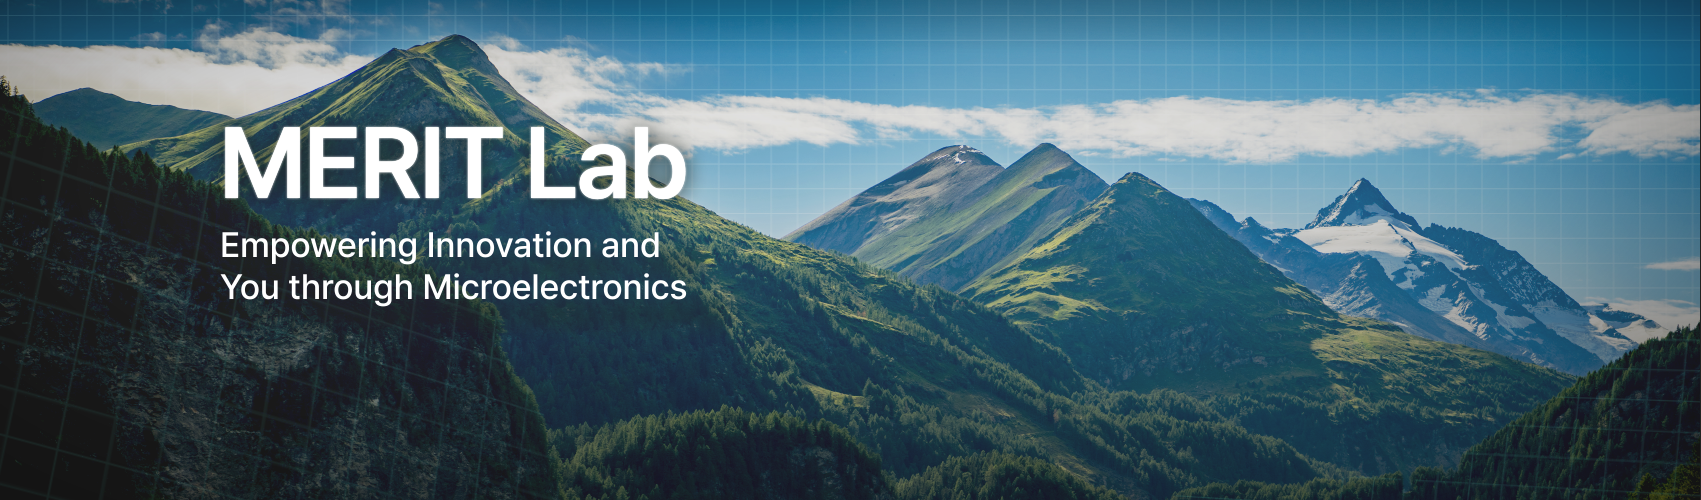
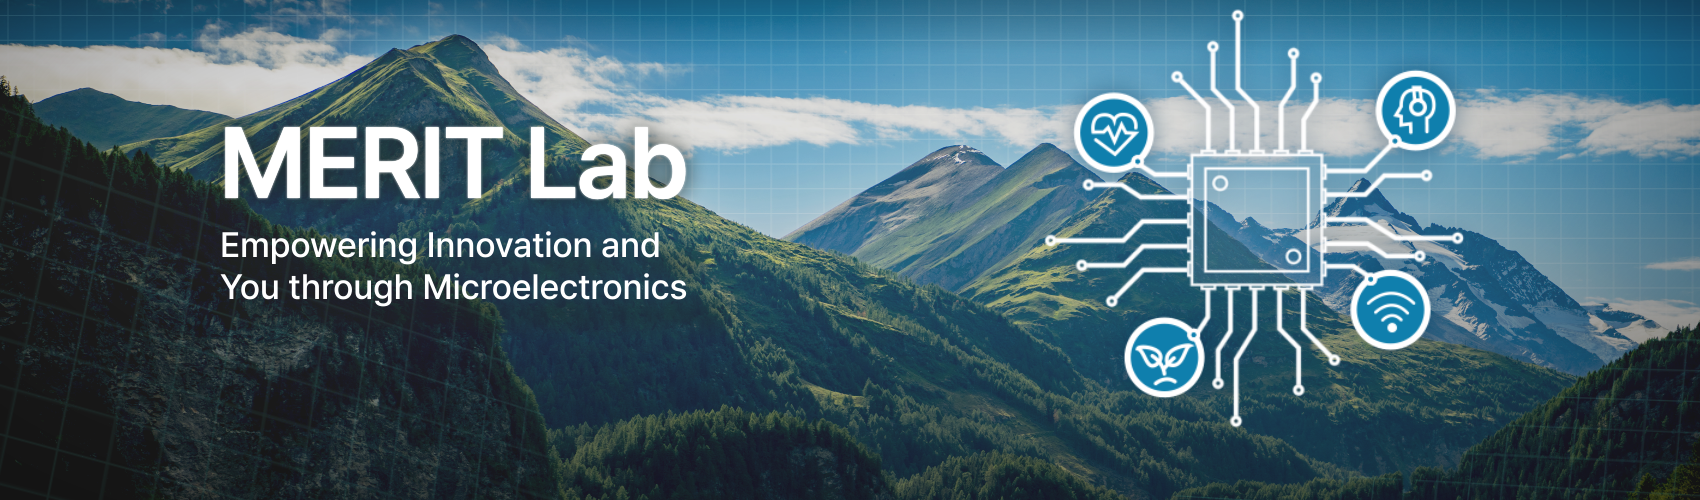
main image 변경, KIEE 내용 Photos, News, Index, Gallery 추가

diff --git a/photo-detail_2025_6.html b/photo-detail_2025_6.html
@@ -1,0 +1,127 @@
+<!DOCTYPE html>
+<html lang="en">
+  <head>
+    <meta charset="UTF-8" />
+    <meta name="viewport" content="width=device-width, initial-scale=1.0" />
+    <title>Photos</title>
+    <!-- css -->
+    <link rel="stylesheet" href="/static/css/reset.css" />
+    <link rel="stylesheet" href="/static/css/style.css" />
+    <link rel="stylesheet" href="/static/css/header.css" />
+    <!-- favicon -->
+    <link rel="icon" href="/static/favicon/favicon.ico" />
+    <!-- font -->
+    <link rel="preconnect" href="https://fonts.googleapis.com" />
+    <link rel="preconnect" href="https://fonts.gstatic.com" crossorigin />
+    <link
+      rel="stylesheet"
+      href="https://cdnjs.cloudflare.com/ajax/libs/font-awesome/6.5.0/css/all.min.css"
+    />
+    <!-- js -->
+    <script src="/static/js/header.js"></script>
+    <!-- 제이쿼리 -->
+    <script
+      src="https://code.jquery.com/jquery-3.7.1.js"
+      integrity="sha256-eKhayi8LEQwp4NKxN+CfCh+3qOVUtJn3QNZ0TciWLP4="
+      crossorigin="anonymous"
+    ></script>
+    <script
+      src="//cdn.jsdelivr.net/npm/jquery.marquee@1.6.0/jquery.marquee.min.js"
+      type="text/javascript"
+    ></script>
+    <!-- header -->
+    <link
+      href="https://www.jqueryscript.net/css/jquerysctipttop.css"
+      rel="stylesheet"
+      type="text/css"
+    />
+    <link
+      href="https://stackpath.bootstrapcdn.com/font-awesome/4.7.0/css/font-awesome.min.css"
+      rel="stylesheet"
+      integrity="sha384-wvfXpqpZZVQGK6TAh5PVlGOfQNHSoD2xbE+QkPxCAFlNEevoEH3Sl0sibVcOQVnN"
+      crossorigin="anonymous"
+    />
+  </head>
+  <body>
+    <header></header>
+    <section id="depth_photo">
+      <div class="photo_detail_wrap">
+        <div class="title">
+            <p>2025 대한전기학회 하계종합학술대회 발표</p>
+            <span>July. 17, Busan</span>
+        </div>
+        <div class="content">
+          <div class="one-img">
+            <img src="/static/img/photos/2025/KIEE/photos_2025_KIEE1.png">
+            <span class="explanation"></span>
+            <p> <b style="font-weight:700;">7월 16일부터 20일까지는 부산 BEXCO 에서 대한전기학회 하계종합학술대회가 열렸습니다!🎉🎉</b></p>
+            <p> <b style="font-weight:700;">이번 하계종합학술대회에서는 <b style="font-weight:1000;">이철현</b> 석사과정과 <b style="font-weight:1000;">김현수</b> 학부연구생이 각각 논문을 제출하고, 발표를 진행했습니다!</b></p>
+          <div class="two-img">
+            <div>
+              <img src="/static/img/photos/2025/KIEE/photos_2025_KIEE3.jpg">
+              <span class="explanation">이철현 석사과정</span>
+            </div>
+            <div>
+              <img src="/static/img/photos/2025/KIEE/photos_2025_KIEE2.jpg">
+              <span class="explanation">김현수 학부연구생</span>
+            </div>
+         </div>
+          <p> <b style="font-weight:700;">이철현 석사과정 학생은 구두 발표로, 김현수 학부연구생은 포스터 발표로 각각 발표를 진행했습니다 🥳</b></p>
+          <p> <b style="font-weight:700;">아쉽게도 둘 다 수상에는 실패했지만, 두 분 모두 좋은 경험이 되었을 것이라 생각합니다!<br>고생 많으셨어요👊</b></p>
+          <div class="one-img">
+            <img src="/static/img/photos/2025/KIEE/photos_2025_KIEE4.png">
+            <span class="explanation"></span>
+         </div>
+          <p> <b style="font-weight:700;"> 마지막으로, 요즘 유행하는 지브리 스타일 사진의 김현수 학생으로 마무리~ 👉</b></p>
+          <p> <b style="font-weight:900;"> MERIT LAB 화이팅! 👊👊👊</b></p>
+         </div>
+        </div>
+      </div>
+      </div>
+      </div>
+    </section>
+    <footer>
+      <div class="f_wrapper">
+        <div class="f_info">
+          <p>MERIT Lab</p>
+          <p>Contact : Prof. Soon-jae Kweon (sj.kweon@catholic.ac.kr)</p>
+          <p>43 Jibong-ro, Wonmi-gu, Bucheon-si, Gyeonggi-do</p>
+        </div>
+        <div class="copyright">
+          <span
+            >© MicroElectronics based on Remarkable Integrated circuits
+            Technology. ALL RIGHTS RESERVED.</span
+          >
+        </div>
+      </div>
+    </footer>
+    <script>
+      $(document).ready(function () {
+        $(".menu-toggle").click(function () {
+          $("nav").toggleClass("active");
+        });
+
+        $("ul li").click(function () {
+          $(this).siblings().removeClass("active");
+          $(this).toggleClass("active");
+        });
+      });
+    </script>
+    <script>
+      document.querySelectorAll(".yearmenu").forEach((link) => {
+        link.addEventListener("click", function () {
+          document
+            .querySelectorAll(".yearmenu")
+            .forEach((link) => link.classList.remove("active"));
+
+          this.classList.add("active");
+        });
+      });
+    </script>
+    <script>
+        $(function () {
+            $("header").load("header.html");
+        });
+    </script>
+  </body>
+</html>

diff --git a/news_current.html b/news_current.html
@@ -86,6 +86,47 @@
             <!-- 연도 -->
             <h5 class="news_year">2025</h5>
             <ul>
+              <li data-id="KIEE2025">
+                <input type="checkbox" / >
+                <i></i>
+                <div class="title_wrap">
+                  <!-- 제목 연도 -->
+                  <div class="tag">2025. 7</div>
+                  <!-- 뉴스 제목 -->
+                  <div class="title">
+                    <h2>2025 대한전기학회 하계종합학술대회 발표</h2>
+                  </div>
+                </div>
+                <!-- 뉴스 컨텐츠 -->
+                <div class="content">
+                  <div class="tag">2025</div>
+                  <!-- 컨텐츠 제목 -->
+                  <p class="title">
+                    2025 대한전기학회 하계종합학술대회 발표
+                    <!-- 날짜 -->
+                    <span class="date">2025.07.17</span>
+                  </p>
+                  <div class="detail">
+                    <!-- 설명 작성 -->
+                    <p>
+                      7월 16일부터 20일까지 부산 BEXCO 에서 진행하는, 2025 대한전기학회 하계종합학술대회에 MERIT Lab이 참여했습니다!<br />
+                      저희 연구실에서는 <b style="font-weight:700;">이철현</b> 석사과정 학생과 <b style="font-weight:700;">김현수</b> 학부연구생이 각각 논문을 내고, 
+                      구두발표와 포스터 발표를 진행했습니다! 축하합니다!🥳🥳
+                    </p>
+                    <p>
+                      MERIT Lab participated in the 2025 Korean Institute of Electrical Engineerings Summer Conference held at BEXCO in Busan from July 16th to 20th! <br />
+                      In our lab, Master's student <b style="font-weight:700">Cheolhyeon Lee</b> and undergraduate researcher <b style="font-weight:700">Hyunsu Kim</b> each submitted papers and gave oral and poster presentations! Congrats! 🥳🥳
+                    </p>
+
+                    <img src="/static/img/photos/2025/KIEE/photos_2025_KIEE1.png"/>
+
+                    <div class="img_2_horizontal">
+                      <img src="/static/img/photos/2025/KIEE/photos_2025_KIEE3.jpg" />
+                      <img src="/static/img/photos/2025/KIEE/photos_2025_KIEE5.jpg" />
+                    </div>
+                  </div>
+                </div>
+              </li>
               <li data-id="Teacher's_Day2025">
                 <input type="checkbox" / >
                 <i></i>

diff --git a/index.html b/index.html
@@ -114,21 +114,21 @@
           <div class="news_list_wrapper">
             <ul>
               <li>
+                <a href="./news_current.html#KIEE2025">2025 대한전기학회 하계종합학술대회 발표 🎤</a>
+              </li>
+              <li>
                 <a href="./news_current.html#Teacher's_Day2025">2025 스승의 날 행사 🌺</a>
               </li>
               <li>
-                <a href="./news_current.html#openingparty2025"> 2025 개강파티 🍺</a>
+                <a href="./news_current.html#openingparty2025"
+                  >2025 개강파티 🍺</a>
               </li>
               <li>
-                <a href="./news_current.html#MSnew2025"
-                  >2025 봄 학기 석사과정 신입생 환영 🌸</a
-                >
+                <a href="./news_current.html#MSnew2025">
+                  2025 봄 학기 석사과정 신입생 환영 🌸</a>
               </li>
               <li>
-                <a href="./news_current.html#graduation2025">2025 졸업식 🎓</a>
-              </li>
-              <li>
-                <a href="./news_current.html#academia2025">2025 한국전자파학회 동계학술대회 참석 🎤</a
+                <a href="./news_current.html#graduation2025">2025 졸업식 🎓</a
                 >
               </li>
             </ul>
@@ -142,6 +142,9 @@
           </div>
         </div>
         <div class="gallery_img_wrapper">
+          <a href="./photo-detail_2025_6.html">
+            <img src="/static/img/photos/2025/KIEE/photos_2025_KIEE1.png" />
+          </a>
           <a href="./photo-detail_2025_5.html">
             <img src="/static/img/photos/2025/Teacher's_Day/photos_2025_teacher's_day4.png" />
           </a>
@@ -153,6 +156,16 @@
           <a href="./photo-detail_2025_3.html">
             <img
               src="/static/img/photos/2025/Graduate/photos_2025_graduate1.jpg"
+            />
+          </a>
+          <a href="./photo-detail_2025_2.html">
+            <img
+              src="/static/img/photos/2025/KIEES/photos_2025_kiees1.jpg"
+            />
+          </a>
+          <a href="./photo-detail_2025_1.html">
+            <img
+              src="/static/img/photos/2025/MERIT_MT/photos_2025_ski1.jpg"
             />
           </a>
         </div>

diff --git a/photo.html b/photo.html
@@ -88,6 +88,20 @@
             <h3 class="photo_year_title">2025</h3>
             <div class="photowrap">
               <div class="container">
+                <a href="./photo-detail_2025_6.html">
+                  <div class="box">
+                  <div class="thumbnail">
+                    <!-- photo의 썸네일 사진 경로 -->
+                    <img src="/static/img/photos/2025/KIEE/photos_2025_KIEE1.png" />
+                  </div>
+                  <!-- photo의 제목 -->
+                  <p class="title">2025 대한전기학회 하계종합학술대회 발표 🎤</p>
+                  <!-- 날짜 -->
+                  <span class="date">2025. 07. 17</span>
+                  </div>
+                </a>
+              </div>  
+              <div class="container">
                 <a href="./photo-detail_2025_5.html">
                   <div class="box">
                   <div class="thumbnail">
@@ -115,6 +129,8 @@
                   </div>
                 </a>
               </div>  
+            </div>
+            <div class="photowrap">
               <div class="container">
                 <a href="./photo-detail_2025_3.html">
                   <div class="box">
@@ -129,8 +145,6 @@
                   </div>
                 </a>
               </div> 
-            </div>
-            <div class="photowrap">
               <div class="container">
                 <a href="./photo-detail_2025_2.html">
                   <div class="box">
